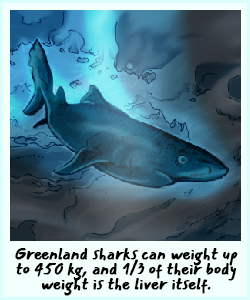
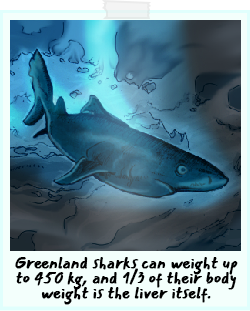
addind completed sketchbook and photo

diff --git a/PieceofPaper/style.css b/PieceofPaper/style.css
@@ -45,10 +45,12 @@ body {
     background: transparent;
 }
 
+.clear{
+    text-align:right;
+}
+
 #clearPaint{
-    display: flex;
-    text-align: right;
-    margin-right: 40px;
+    margin-right: 20px;
     font-family: 'Mansalva';
     font-size: 40px;
     color: #b59b92;
@@ -60,12 +62,15 @@ body {
 }
 
 .photoShark{
-    display:flex;
-    justify-content: center;
-    width: 250px;
+    display: block;
+    margin-left: auto;
+    margin-right: auto;
     height: 300px;
+    width: 250px;
+    box-shadow: 5px 12px 5px rgba(0, 0, 0, 0.5);
 }
 
 .photoShark img{
     width: 250px;
+    height: 100%;
 }

diff --git a/PieceofPaper/PieceofPaper.html b/PieceofPaper/PieceofPaper.html
@@ -26,8 +26,10 @@
         <button value="#a468ff"><img class="color" src="img/7.png"/></button>
         <button value="#ff70fe"><img class="color" src="img/8.png"/></button>
         <div id='drawingCanvas'></div>
-        <button id="clearPaint">X</button>
+        <div class="clear"><button id="clearPaint">X</button></div>
+
         <script src="script.js"></script>
+        
         <div class="photoShark"><img src="img/shark.png"/></div>
 
     </div>
